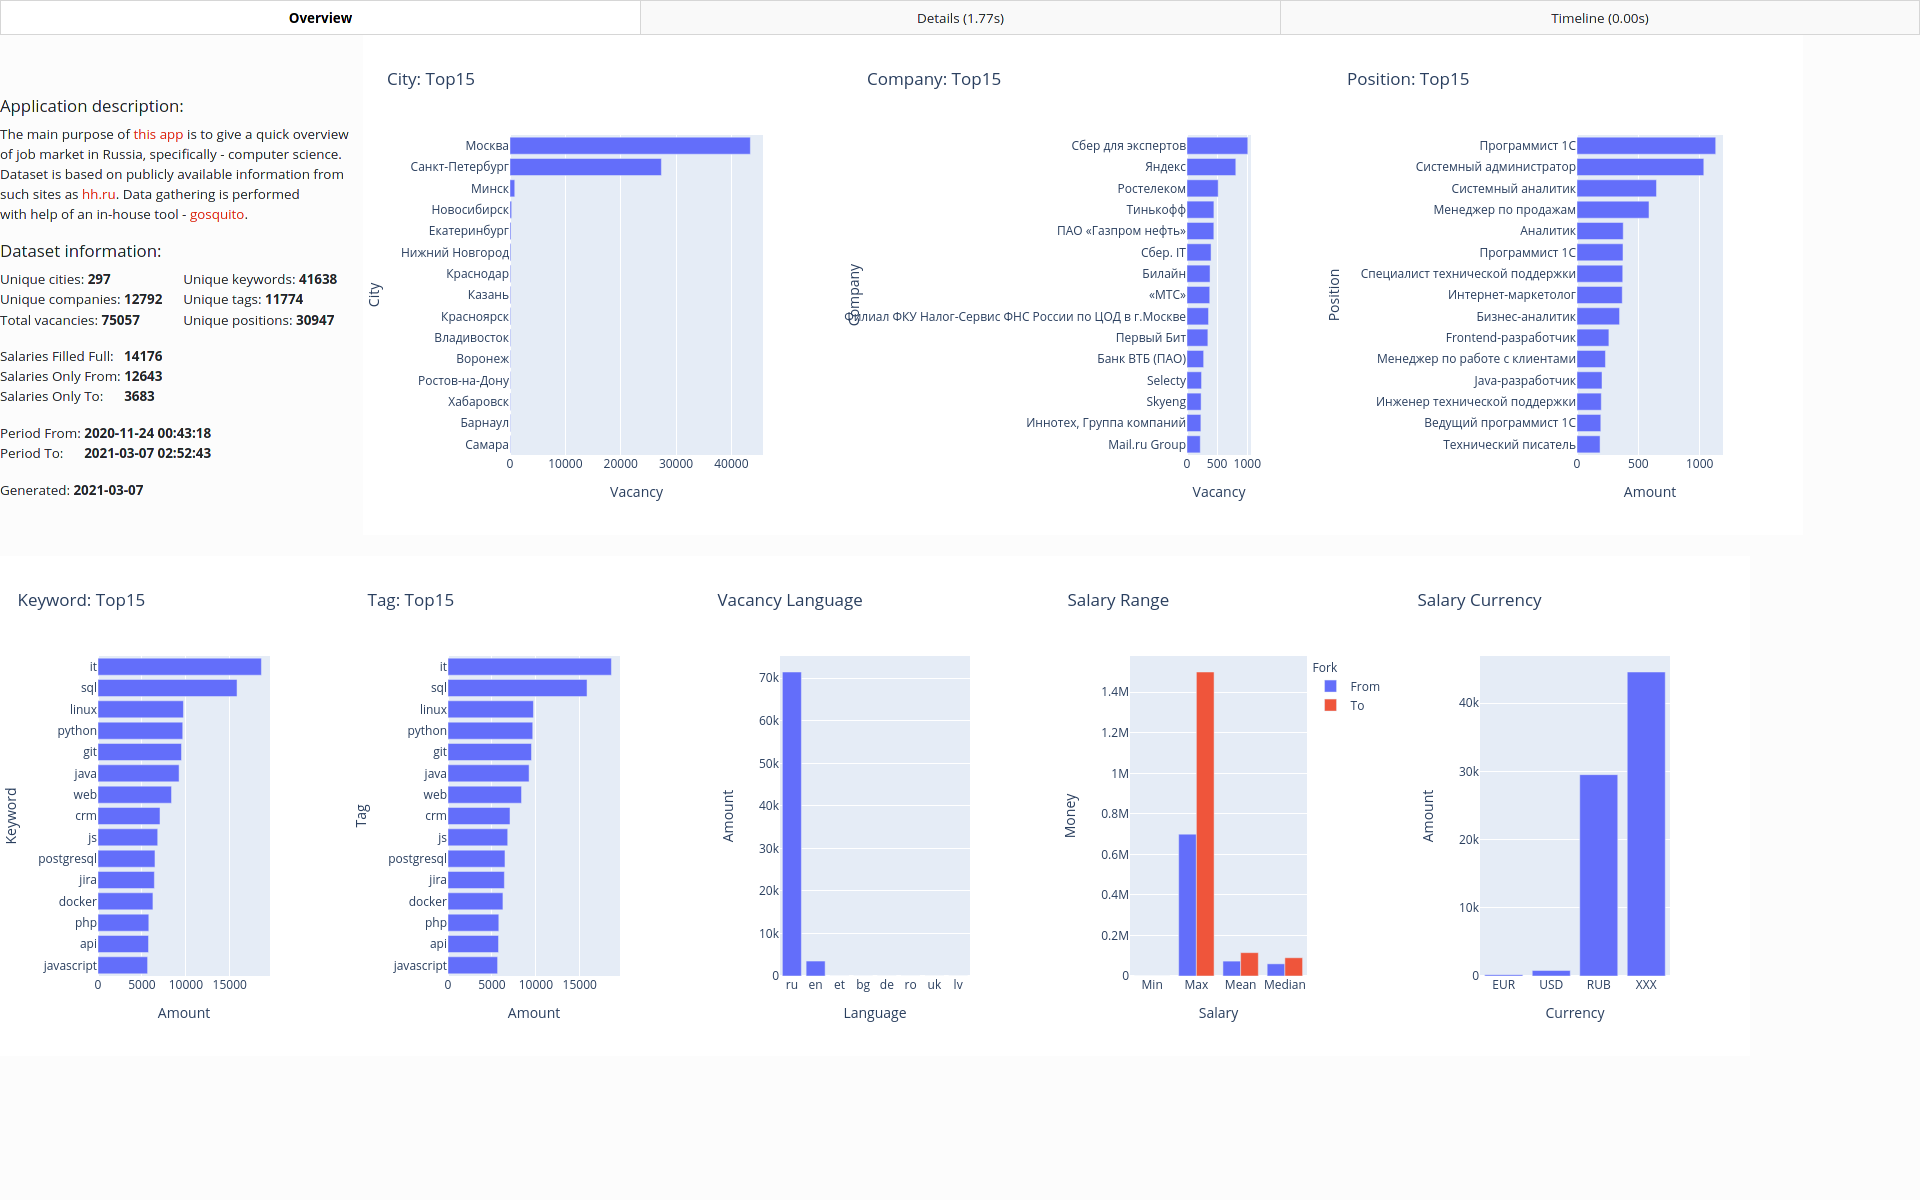
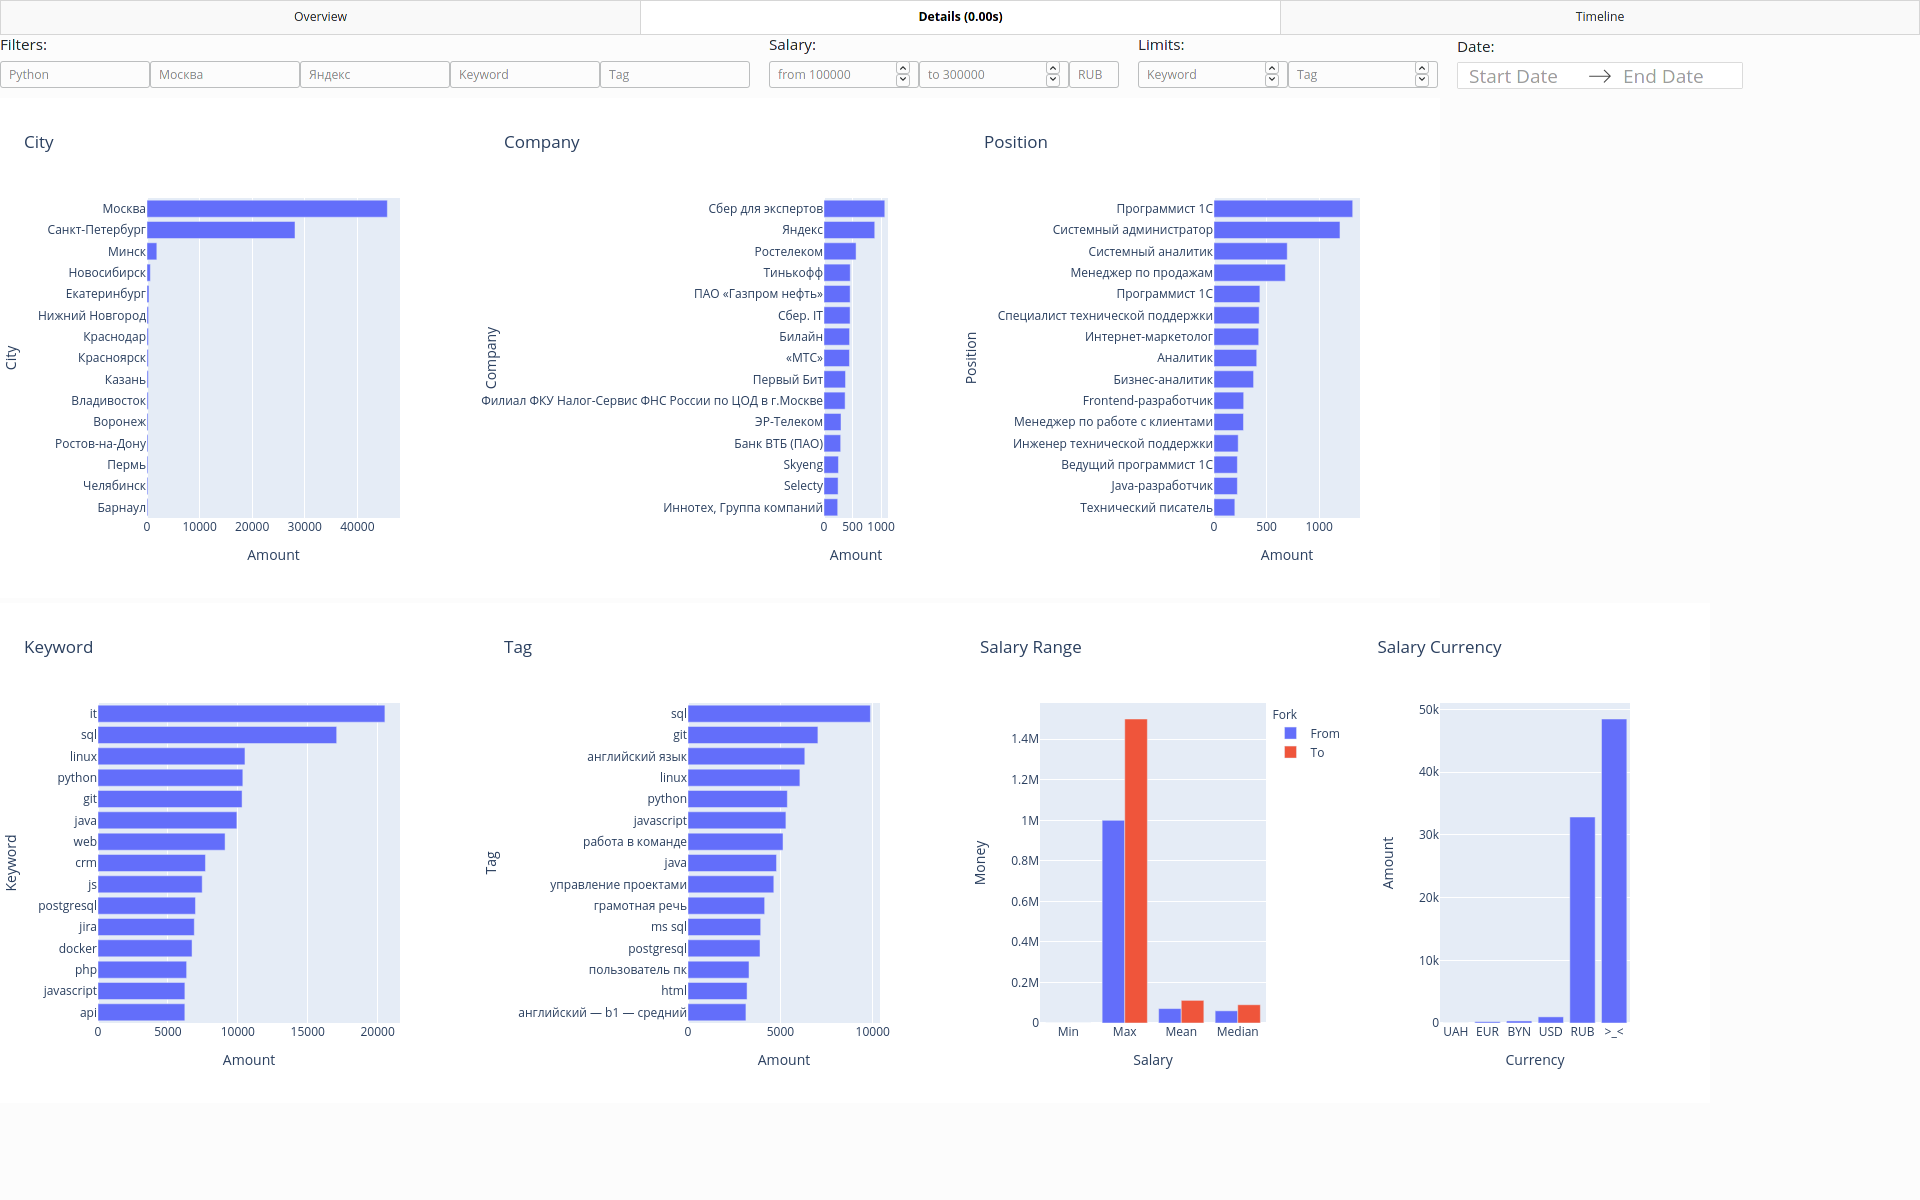
input regexp byn + uah currency ui improving

diff --git a/lcn/__main__.py b/lcn/__main__.py
@@ -389,13 +389,13 @@ def main():
                         dcc.Input(
                             id="tab2-keyword-input",
                             type="text",
-                            placeholder="Akka",
+                            placeholder="Keyword",
                             style=input_style
                         ),
                         dcc.Input(
                             id="tab2-tag-input",
                             type="text",
-                            placeholder="Scala",
+                            placeholder="Tag",
                             style=input_style
                         ),
                     ], style=default_style),
@@ -418,8 +418,10 @@ def main():
                         ),
                         html.Datalist(id="currencies", children=[
                             html.Option(value="RUB"),
-                            html.Option(value="USD"),
+                            html.Option(value="BYN"),
                             html.Option(value="EUR"),
+                            html.Option(value="UAH"),
+                            html.Option(value="USD")
                         ]),
                         dcc.Input(
                             id="tab2-salary-currency-input",
@@ -518,7 +520,17 @@ def main():
                         id="tab2-salary-range",
                         figure=get_salary_fig(df),
                         style=default_style
-                    )
+                    ),
+                    dcc.Graph(
+                        id="tab2-top-salary-currency",
+                        figure=get_top_vertical_fig(
+                            salary_currency_values,
+                            {"index": "Currency", "y": "Amount"},
+                            "Salary Currency",
+                            width=350
+                        ),
+                        style=default_style
+                    ),
                 ])
             ])
 
@@ -620,7 +632,9 @@ def main():
             Output("tab2-position-graph", "figure"),
             Output("tab2-keyword-graph", "figure"),
             Output("tab2-tag-graph", "figure"),
-            Output("tab2-salary-range", "figure")
+            Output("tab2-salary-range", "figure"),
+            Output("tab2-top-salary-currency", "figure")
+
         ],
         [
             Input("tab2-position-input", "value"),
@@ -646,13 +660,13 @@ def main():
 
         # Primary filters.
         if position:
-            data = data[data["title"].str.match(re.escape(position), case=False)]
+            data = data[data["title"].str.match(position, case=False)]
 
         if city:
-            data = data[data["city"].str.match(re.escape(city), case=False)]
+            data = data[data["city"].str.match(city, case=False)]
 
         if company:
-            data = data[data["company"].str.match(re.escape(company), case=False)]
+            data = data[data["company"].str.match(company, case=False)]
 
         if keyword:
             keywords_index = keywords_exploded.str.contains(keyword, case=False, na=False)
@@ -740,6 +754,12 @@ def main():
             ),
             get_salary_fig(
                 data
+            ),
+            get_top_vertical_fig(
+                data["salary_currency"].value_counts(ascending=True),
+                {"index": "Currency", "y": "Amount"},
+                "Salary Currency",
+                width=350
             )
         ]
 
